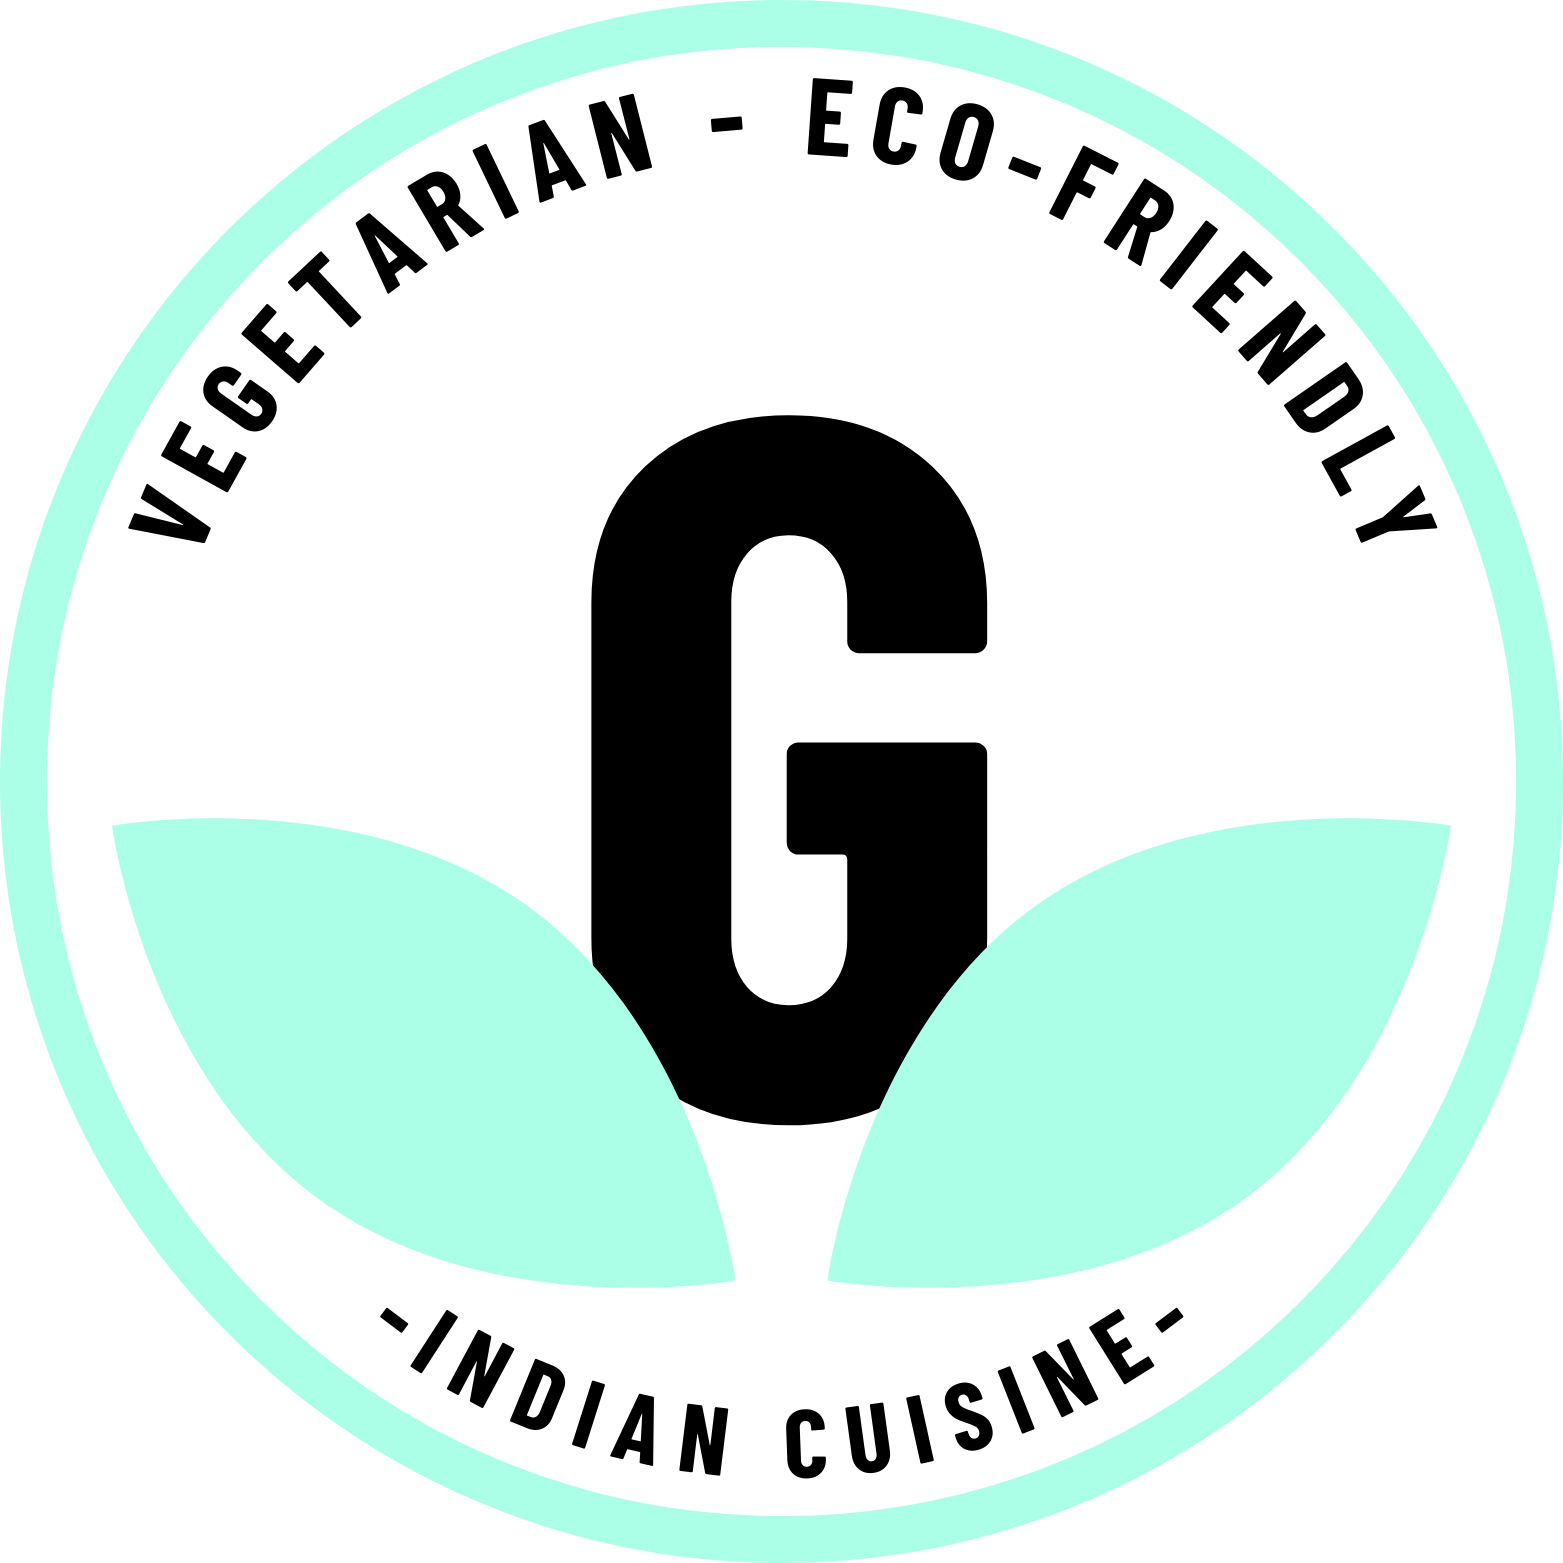
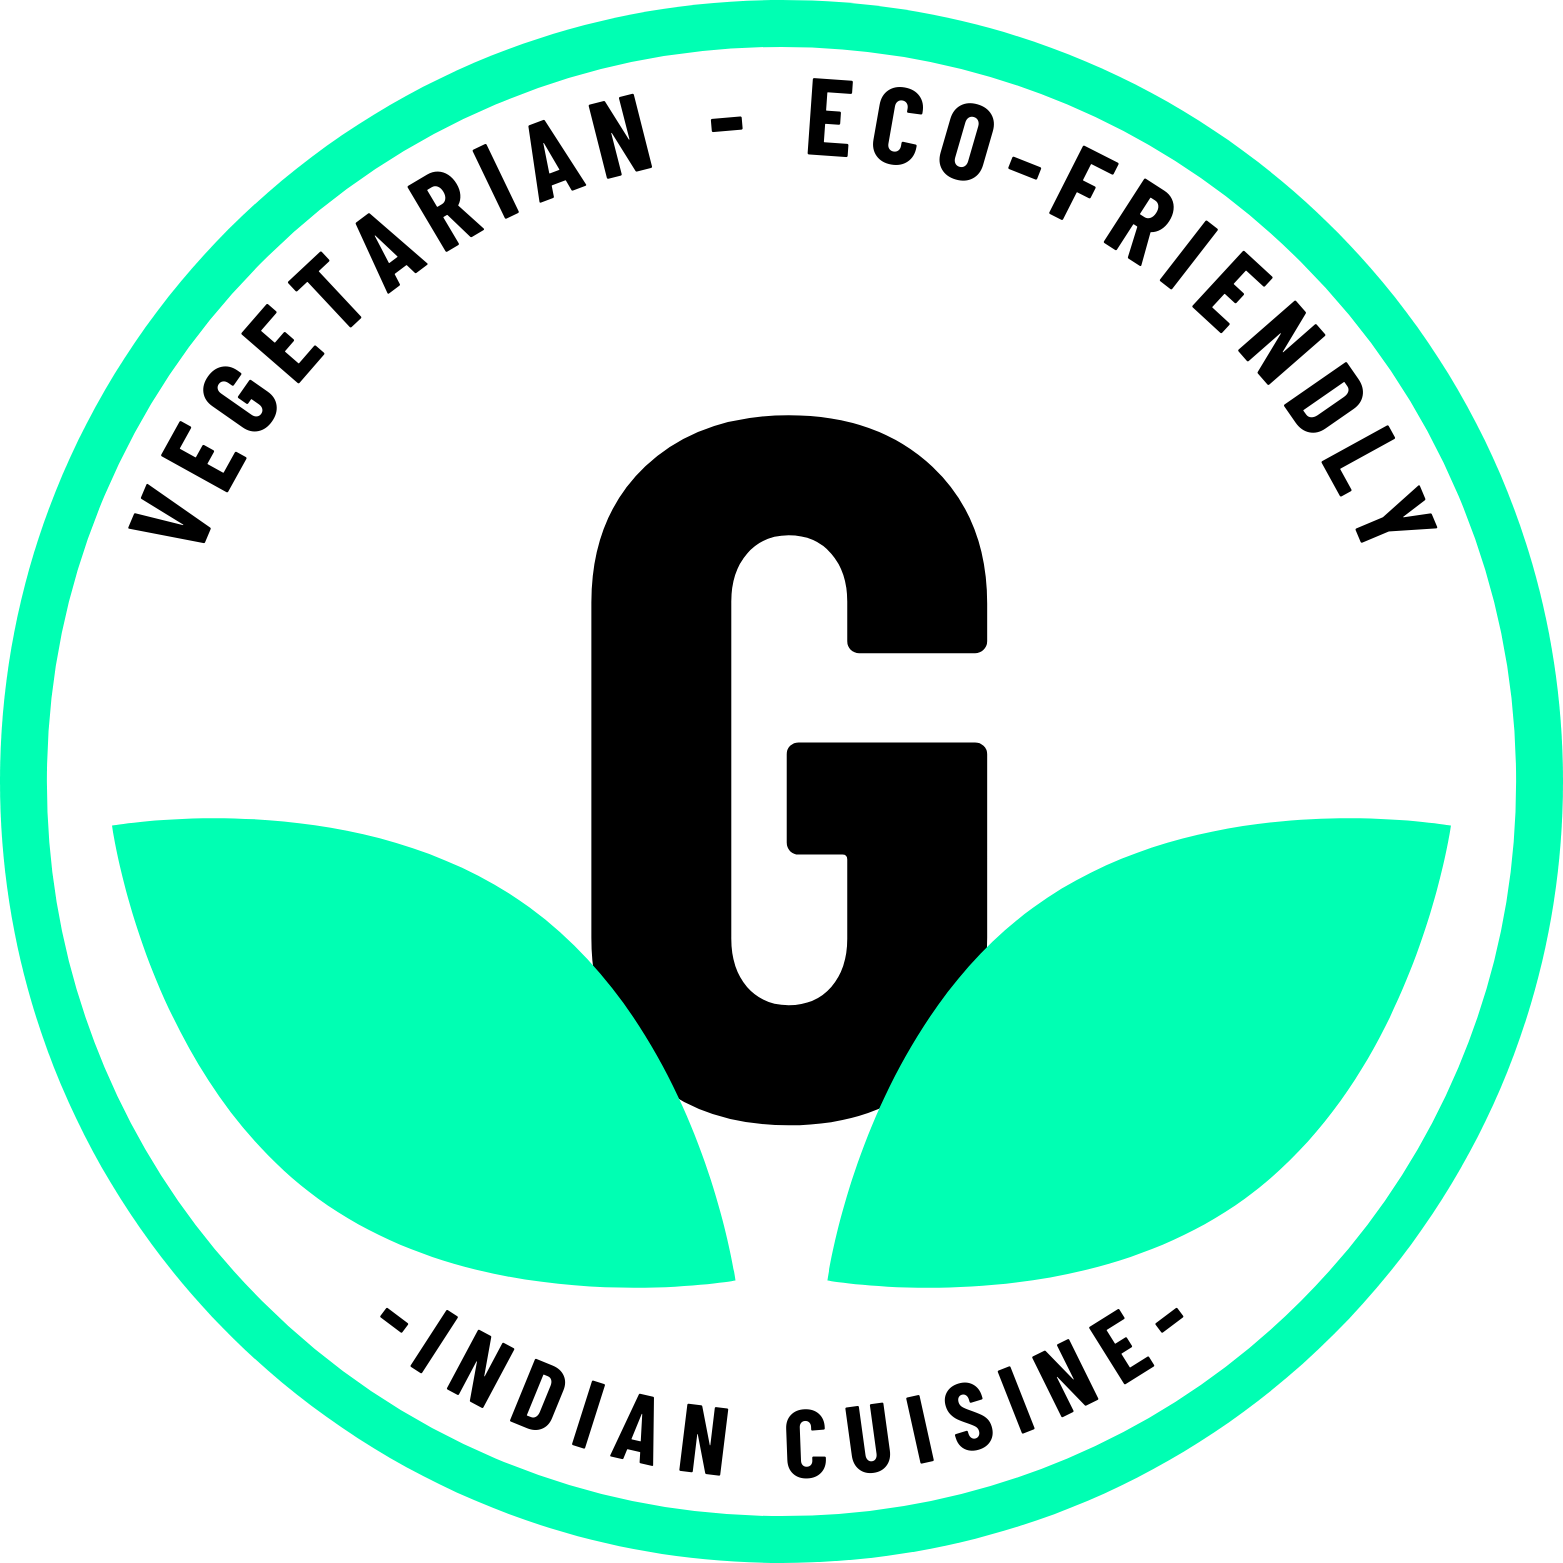
making more changes

Changed region(s): [[0.0, 0.0, 1.0, 1.0]]

diff --git a/about.html b/about.html
@@ -22,7 +22,7 @@
       rel="stylesheet"
     />
     <link rel="stylesheet" href="style.css" />
-    <link rel="icon" type="image/png" href="assets/favicon.png" />
+    <link rel="icon" type="image/png" href="assets/emblem.png" />
   </head>
   <body>
     <nav
@@ -86,18 +86,38 @@
           <p class="fs-4 fade-in">
             GreenSpoon only collaborates with farms which feed their animals
             natural grass, with no additives or chemicals to ensure you are
-            provided with fresh and natural dairy products. Produce and herbs
-            picked at farms are never genetically modified, and only FDA
+            provided with fresh and natural dairy and egg products. Produce and
+            herbs picked at farms are never genetically modified, and only FDA
             approved fertilizers are used.
           </p>
         </div>
         <div class="col-md-6 text-center fade-in">
           <img
-            src="assets/farm.jpg"
+            src="assets/about/farm.jpg"
             alt="Farm Image"
             class="img-fluid rounded"
             style="max-width: 80%; height: auto"
           />
+        </div>
+      </div>
+    </div>
+
+    <div class="container mt-5 first">
+      <div class="row align-items-center">
+        <div class="col-md-6 text-center text-md-start fade-in">
+          <img
+            src="assets/about/chickenfarm.jpg"
+            alt="Farm Image"
+            class="img-fluid rounded"
+            style="max-width: 80%; height: auto"
+          />
+        </div>
+        <div class="col-md-6 text-center fade-in">
+          <h2 class="display-6 title2">Nurtured with Care</h2>
+          <p class="fs-4">
+            GreenSpoon ensures animals are cage-free, healthy, and cared for,
+            and are given large plots of land to herd, graze and thrive.
+          </p>
         </div>
       </div>
     </div>

diff --git a/style.css b/style.css
@@ -35,7 +35,7 @@ body {
 .title {
   font-size: 4rem;
   font-weight: 700;
-  color: #abffe6;
+  color: #00ffb3;
   text-transform: uppercase;
   margin-bottom: -20px;
 }
@@ -52,7 +52,7 @@ body {
 }
 
 .title2 {
-  color: #abffe6;
+  color: #00ffb3;
   font-weight: 600;
 }
 
@@ -66,7 +66,7 @@ body {
 }
 
 .nav-link:hover {
-  color: #abffe6;
+  color: #00ffb3;
 }
 
 .navbar-nav {
@@ -80,14 +80,14 @@ body {
 .sectiondiv {
   margin-top: 50px;
   margin-bottom: 50px;
-  background-color: #abffe6;
+  background-color: #00ffb3;
   text-align: center;
   border-radius: 40px;
 }
 
 .border-div {
-  border-top: 2px solid #abffe6; /* Top border */
-  border-bottom: 2px solid #abffe6; /* Bottom border */
+  border-top: 2px solid #00ffb3; /* Top border */
+  border-bottom: 2px solid #00ffb3; /* Bottom border */
   padding: 20px; /* Optional: Adds padding inside the div */
   margin-bottom: 50px;
 }
@@ -136,14 +136,14 @@ body {
   height: 75px;
   font-size: 25px;
   text-align: center;
-  background-color: #abffe6;
+  background-color: #00ffb3;
   border: none;
   color: black;
   transition: transform 0.3s ease, box-shadow 0.3s ease; /* Smooth transition on hover */
 }
 
 .btn-brand:hover {
-  background-color: #abffe6;
+  background-color: #00ffb3;
   border: none;
   color: black;
   transform: translateY(-5px); /* Slight elevation on hover */

diff --git a/index.html b/index.html
@@ -26,7 +26,7 @@
       rel="stylesheet"
     />
     <link rel="stylesheet" href="style.css" />
-    <link rel="icon" type="image/png" href="assets/favicon.png" />
+    <link rel="icon" type="image/png" href="assets/emblem.png" />
   </head>
   <body>
     <nav
@@ -185,9 +185,9 @@
           <div class="col-md-6 text-center fade-in">
             <img
               src="assets/emblem.png"
-              class="card-img-top rounded"
-              alt="Card Image"
-              class="emblem"
+              alt="Farm Image"
+              class="img-fluid rounded"
+              style="max-width: 80%; height: auto"
             />
           </div>
         </div>
